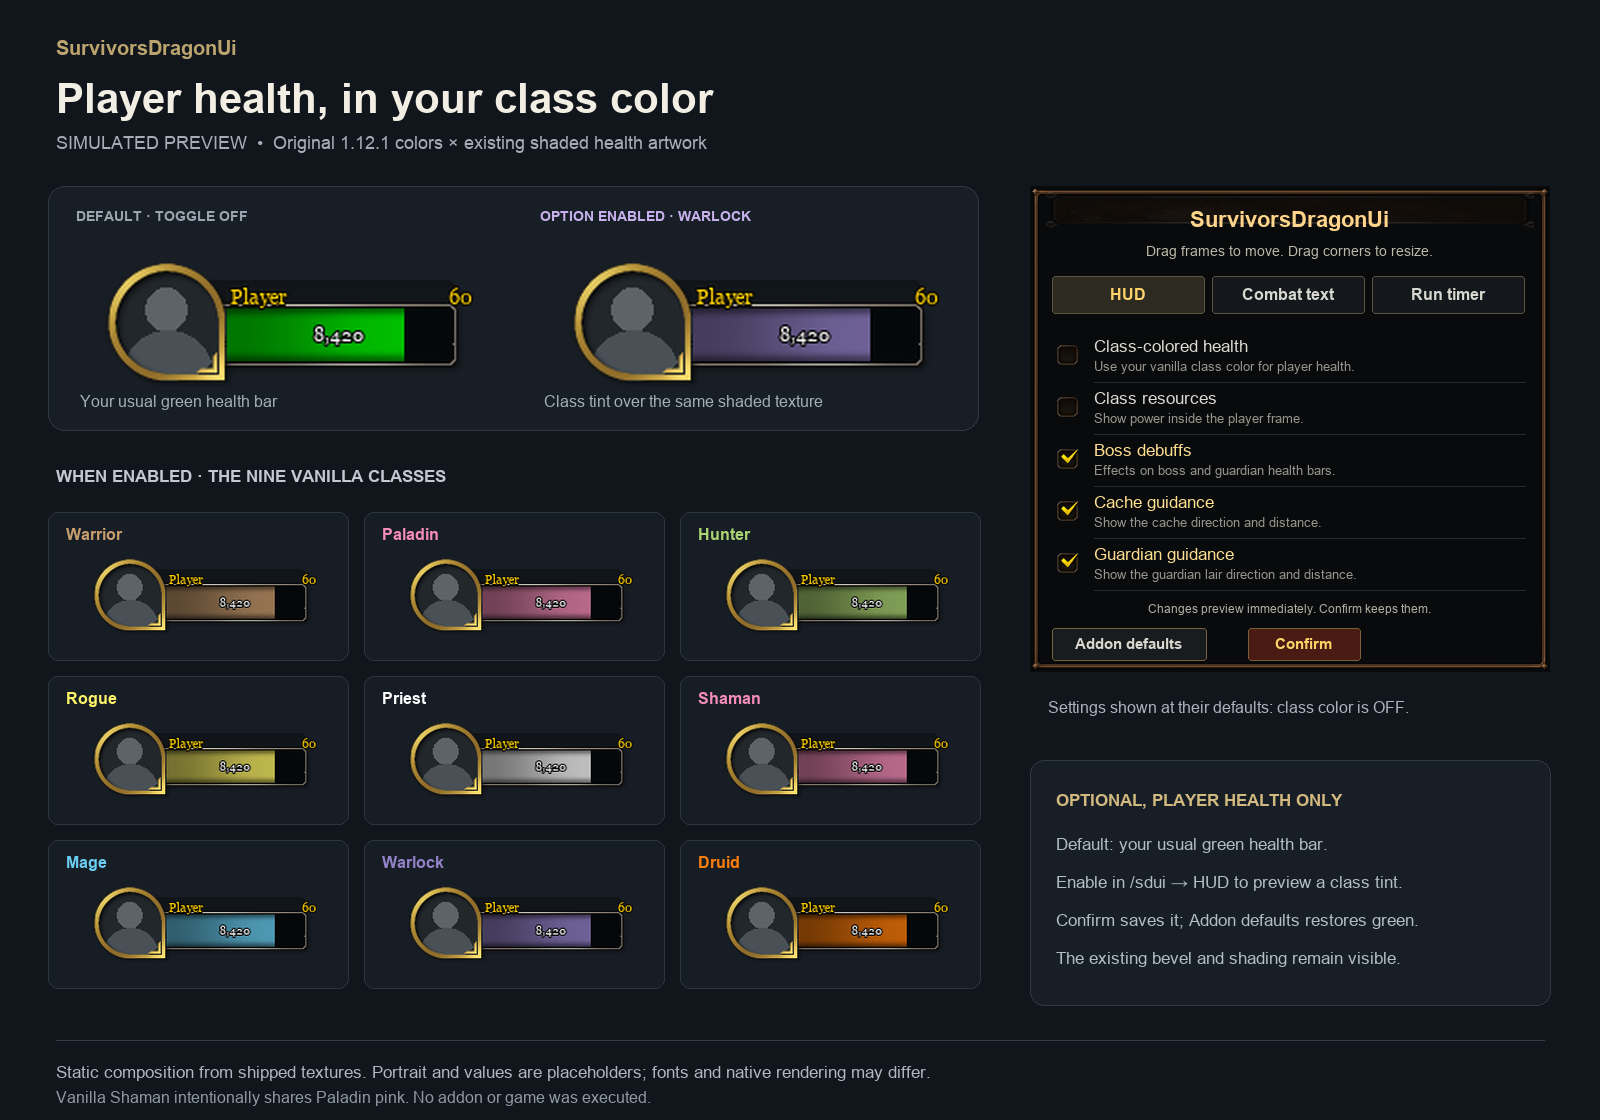
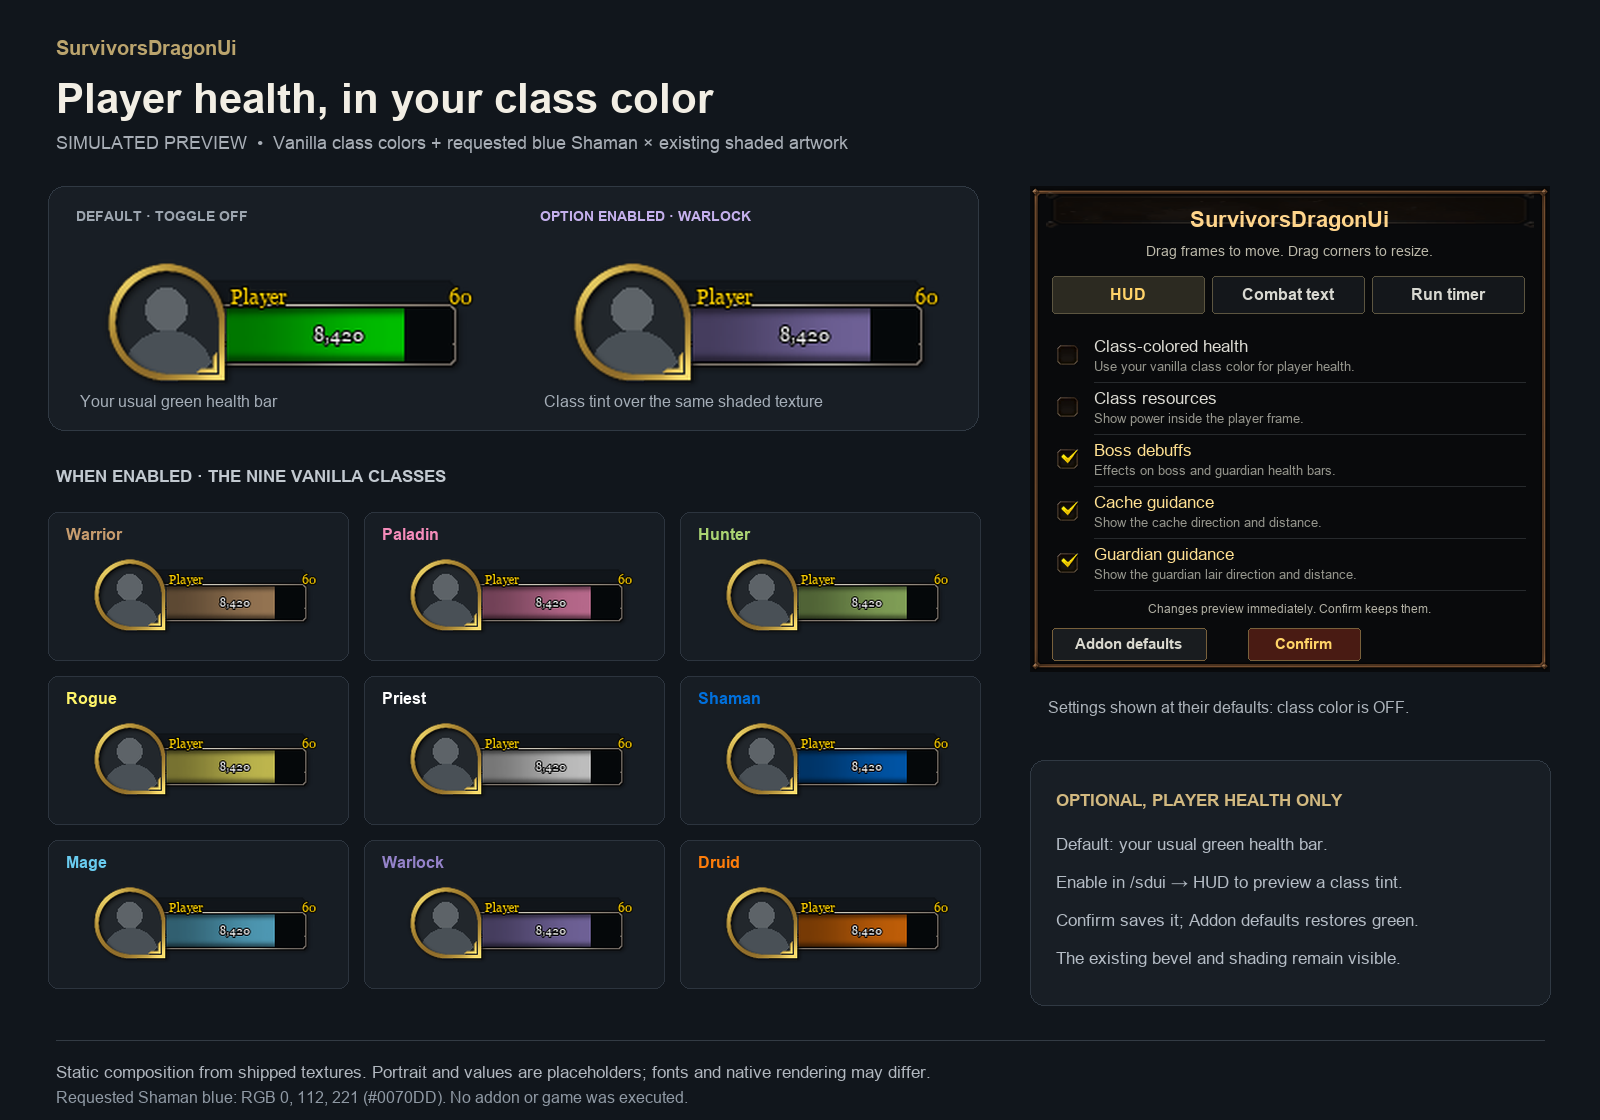
feature: use requested blue for Shaman health

diff --git a/AGENTS.md b/AGENTS.md
@@ -6,7 +6,7 @@
 
 - Waypoint snapshot acceptance and geometry calibration share one lifecycle. Calibrate only from renderer-accepted copies, never independent raw-list reads. Run cleanup refers to observed boundaries: active-to-inactive transitions and world leave block old raw references. Once zone context is established, a later `AZSZONE` or zone-identity change retires the last accepted reference unless the matching destination prefix has arrived since acceptance; keep fresh same-batch snapshots. Use each stream's own stamped data without cross-prefix timestamp ordering, including initial reload data received before zone context. The native API has no run id; unobserved boundaries limit this best-effort isolation, so never claim provable full run identity or persist private gameplay snapshots.
 - The user requested six display controls in `/sdui`: boss debuffs default on, custom SCT damage icons default off, class resources default off, class-colored player health default off, cache guidance default on and guardian guidance default on. Store only the normalized booleans `bossDebuffs`, `damageIcons`, `classResources`, `classHealth`, `cacheGuidance` and `guardianGuidance` in the separate `SurvivorsDragonUiDisplay` SavedVariable; missing or invalid values use each control's default. Cache and Guardian controls independently hide their own guidance HUD and world-map pins. Preview visibility immediately without clearing valid selections, accepted snapshots, calibration or confirmed geometry; keep hidden guides editable through their existing layout handles. Preview draft values live and save only with Confirm; world leave/logout/reload discard drafts. Turning class resources off restores full-height player health and hides attached power and point artwork without changing the player's confirmed geometry or SCT mode. Both full-reset entry points restore all six display defaults through the existing shared reset while leaving SCT mode unchanged. This is an explicit exception to the earlier appearance-settings restriction. The owner's [updated API reference supplied on 2026-10-15](docs/AzerothSurvivors-Addon-API-2026-10-15.txt) supersedes the target-only debuff limitation: feature-detect `AZS_GetDebuffs(spawnId)` and read each displayed boss/awake guardian independently, including untargeted encounters. Call the getter during OnUpdate for native pause-aware `remaining`; use its `duration`, `stacks`, `icon`, `name`, `dispelType` and explicit `permanent` flag without inventing timing. Permanent effects have no expiration countdown; nil timing is unknown, not permanent. Keep rectangular metallic icon borders and API-based tooltips. Missing API/data hides debuff icons without hiding valid health bars; do not fall back to `UnitDebuff`, target identity or combat-log inference. Never mutate native lists or persist debuffs/gameplay state. Reload recovery still needs native replay. This integration requires the matching game build and remains unverified in-game. Preserve the existing official API Markdown and the new supplied text copy verbatim.
-- The user-requested **Class-colored health** control in the `/sdui` HUD tab defaults off. Tint only the player health fill with the original 1.12.1 `FrameXML/Fonts.xml` class palette, including pink Shaman, through the existing shaded `healthDF2.tga` artwork and shared crop. Keep the metallic border, centered value, damage-loss overlay and optional resource layout. Native health recoloring must retain the effective choice; unknown class data falls back to green. Use the existing `classHealth` display boolean with live preview, Confirm-only saving, discard and both full resets; do not add a separate SavedVariable or persist class/health data. Static simulated artwork is not evidence of in-game behavior.
+- The user-requested **Class-colored health** control in the `/sdui` HUD tab defaults off. Tint only the player health fill with the original 1.12.1 `FrameXML/Fonts.xml` class palette with the user-requested Shaman blue override `#0070DD` (RGB `0, 112, 221`; normalize the exact channels by 255), through the existing shaded `healthDF2.tga` artwork and shared crop. Keep the metallic border, centered value, damage-loss overlay and optional resource layout. Native health recoloring must retain the effective choice; unknown class data falls back to green. Use the existing `classHealth` display boolean with live preview, Confirm-only saving, discard and both full resets; do not add a separate SavedVariable or persist class/health data. Static simulated artwork is not evidence of in-game behavior.
 - Keep the user updated whenever meaningful progress happens.
 - Never run local validation, tests, syntax checks, or game startups for this project. The user authorized code formatting, dead-code and TOC version metadata checks in GitHub Actions for pull requests; this does not authorize local check runs or addon/game execution in CI. Packaging ZIPs and publishing releases are allowed when requested, but are not addon validation.
 - A PR that changes the shipped ZIP payload must set `## Version` in `SurvivorsDragonUi.toc` strictly higher than the latest target `main` version. Determine PR-introduced payload changes with the shared comparison of the PR merge-base and PR-head `packaging/runtime-files.json` manifests, including removals and payload membership changes; do not maintain another payload list. Documentation/tooling-only PRs leave the version unchanged and do not release. Keep `major.minor.patch-survivors` format and the `-survivors` suffix; default to one patch increment, such as `3.2.2-survivors` to `3.2.3-survivors`. Bump once per qualifying PR, not per commit or push. If `main` reaches the same or a higher version before merge, update the PR version again. CI checks metadata without auto-committing. Keep `main` protected with the GitHub Actions check `Formatting and local dead code` required, branches up to date before merge, and enforcement including administrators. Do not remove or weaken this protection without explicit user authorization.

diff --git a/README.md b/README.md
@@ -49,7 +49,7 @@ The **Run timer** controls preview the top `RUN` label's font, size, outline and
 
 The **HUD** tab's **Boss debuffs** checkbox defaults to **on**; the **Combat text** tab's **Damage icons** checkbox defaults to **off**. Changes preview live, including on hits already animating. Each displayed boss or awake guardian reads its own official `AZS_GetDebuffs(spawnId)` list without requiring a target. Rectangular icons reuse the health pill’s metallic border textures, with native stack counts and tooltips built from the API's spell name, dispel type and timing. Known remaining times come directly from the native getter and pause with the run; permanent effects have no expiration countdown, and unknown timing stays unknown. These controls do not change the selected `/sct` mode or native outgoing text.
 
-**Class-colored health** in **HUD** defaults to **off**. Enable it to tint the player health bar with the original WoW 1.12.1 class colors while retaining the shaded health texture, metallic frame, centered value and damage-loss effect. It works with either the full-height health bar or Class resources enabled. The palette comes from the [original 1.12.1 UI color table](https://github.com/MOUZU/Blizzard-WoW-Interface/blob/master/1.12.1/FrameXML/Fonts.xml): Hunter `(0.67, 0.83, 0.45)`, Warlock `(0.58, 0.51, 0.79)`, Priest `(1, 1, 1)`, Paladin and Shaman `(0.96, 0.55, 0.73)`, Mage `(0.41, 0.8, 0.94)`, Rogue `(1, 0.96, 0.41)`, Druid `(1, 0.49, 0.04)` and Warrior `(0.78, 0.61, 0.43)`. Vanilla Shaman shares Paladin pink. Missing or unknown class data falls back to the usual green. This player-only choice previews live, saves only with Confirm and uses the existing display discard/reset lifecycle. Appearance and behavior remain unverified in-game.
+**Class-colored health** in **HUD** defaults to **off**. Enable it to tint the player health bar with the original WoW 1.12.1 class colors, with the requested blue Shaman override, while retaining the shaded health texture, metallic frame, centered value and damage-loss effect. It works with either the full-height health bar or Class resources enabled. The palette comes from the [original 1.12.1 UI color table](https://github.com/MOUZU/Blizzard-WoW-Interface/blob/master/1.12.1/FrameXML/Fonts.xml): Hunter `(0.67, 0.83, 0.45)`, Warlock `(0.58, 0.51, 0.79)`, Priest `(1, 1, 1)`, Paladin `(0.96, 0.55, 0.73)`, Mage `(0.41, 0.8, 0.94)`, Rogue `(1, 0.96, 0.41)`, Druid `(1, 0.49, 0.04)` and Warrior `(0.78, 0.61, 0.43)`. Shaman uses the requested blue `#0070DD` (RGB `0, 112, 221`, normalized as `0, 112 / 255, 221 / 255`) instead of the original vanilla pink. Missing or unknown class data falls back to the usual green. This player-only choice previews live, saves only with Confirm and uses the existing display discard/reset lifecycle. Appearance and behavior remain unverified in-game.
 
 [Simulated class-color preview](docs/previews/player-class-health.png), composed from the shipped artwork with placeholder portraits and values; it is not an in-game screenshot.
 
